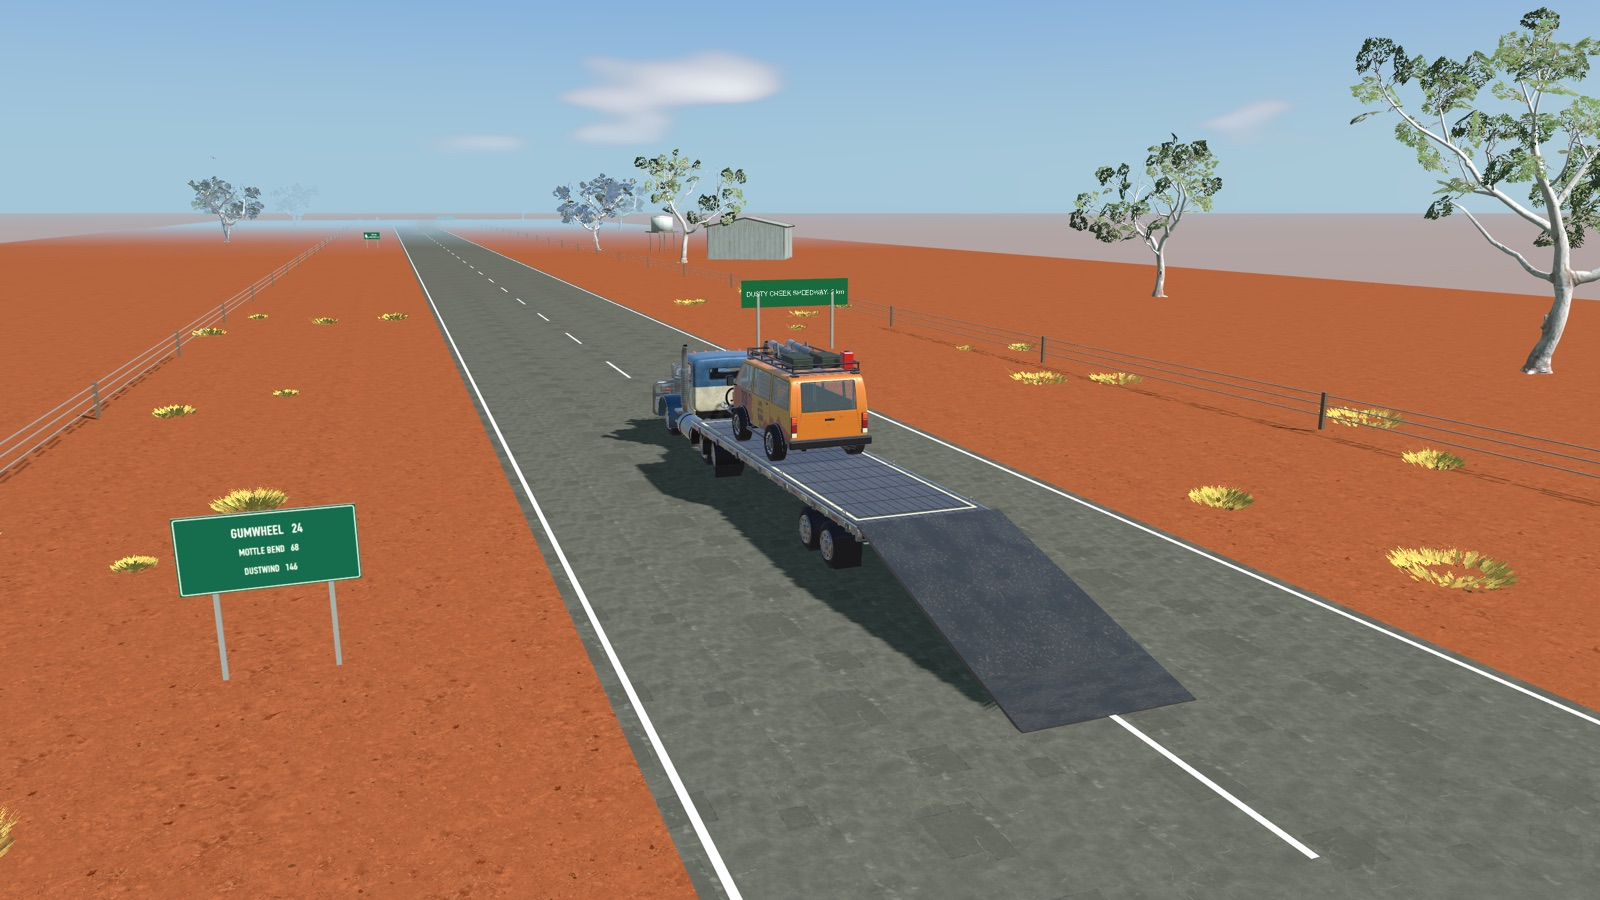
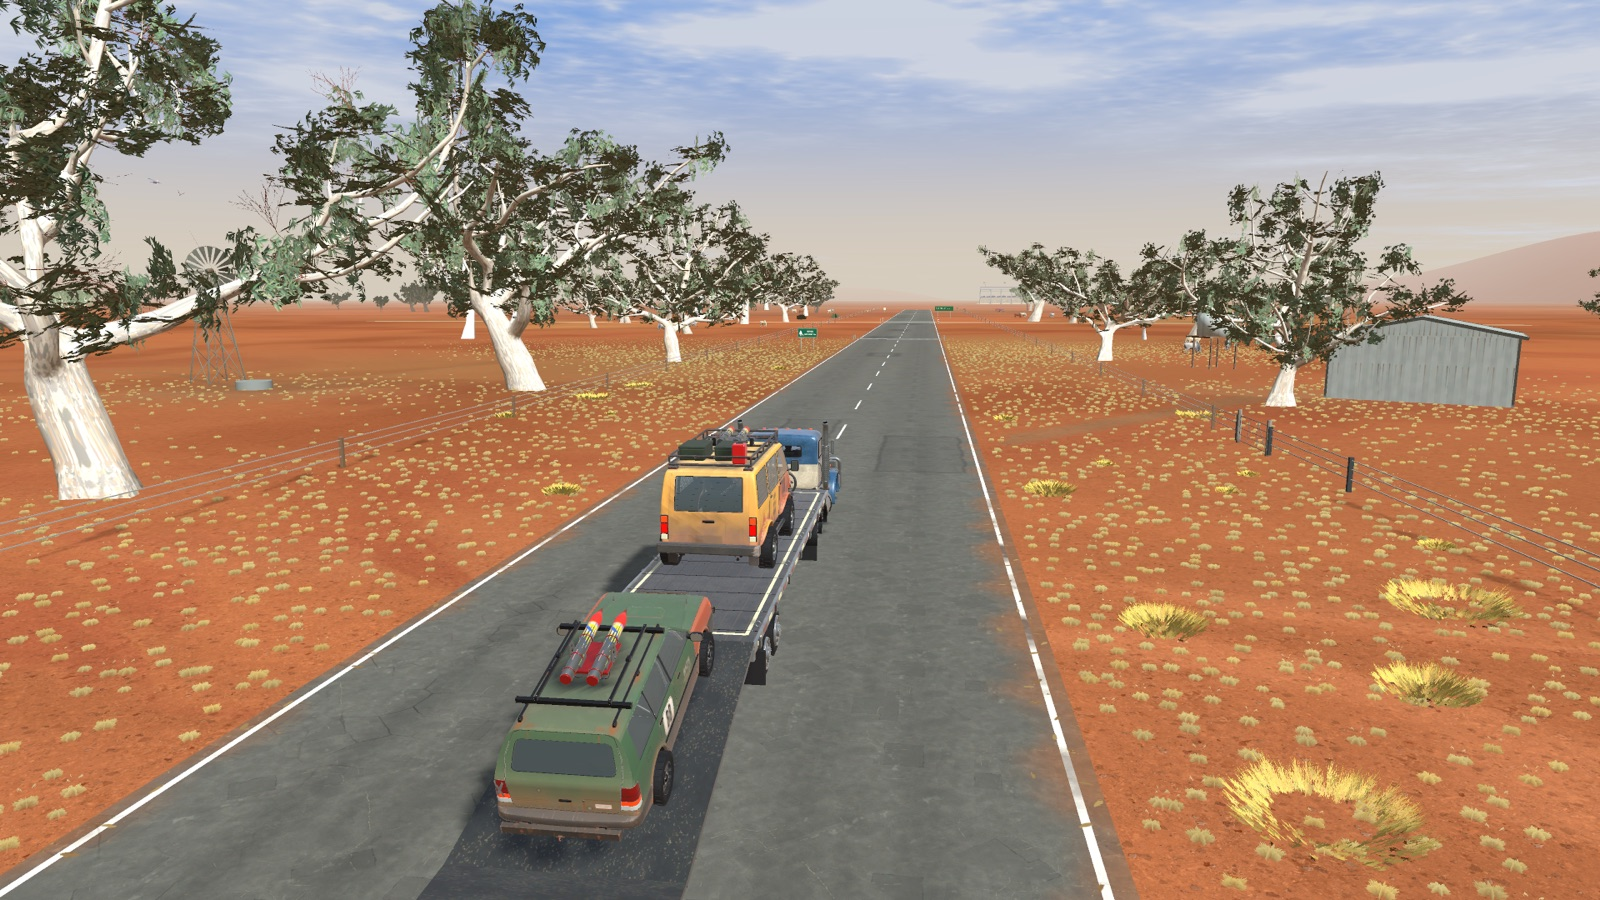
Sync from rig-king/site

diff --git a/tracks/index.html b/tracks/index.html
@@ -12,7 +12,7 @@
 <body>
   <header class="site-header">
     <div class="wrap">
-      <a class="brand" href="/" aria-label="Rig King home"><img src="/assets/logo.svg" alt="Rig King" width="266" height="57"></a>
+      <a class="brand" href="/" aria-label="Rig King home"><img src="/assets/logo-400.png" srcset="/assets/logo-400.png 400w, /assets/logo-800.png 800w" sizes="(max-width: 620px) 158px, 197px" alt="Rig King" width="197" height="40"></a>
       <nav class="nav" aria-label="Main">
         <a href="/tracks/" aria-current="page">Tracks</a>
         <a href="/support/">Support</a>
@@ -70,12 +70,12 @@
         <p class="kicker">04 · The Daintree, Far North Queensland</p>
         <h2>Croc River Run</h2>
         <p class="region">Point to point · Ferry · Trail · Track pack (iOS)</p>
-        <p>Set in the Daintree, where a cable ferry crosses a crocodile river and a famous 4WD track runs north through the rainforest. The rig drives down the riverside road past the croc warning signs, boards the Mudlark Ferry under its own power, and the fight carries on aboard while the river slides past. On the far bank the road gives up: a bumpy, kerb-free trail through dense jungle, a splash creek, and a paddock-fence finish.</p>
+        <p>Set in the Daintree, where a cable ferry crosses a crocodile river and a famous 4WD track runs north through the rainforest. The rig drives down the riverside road past the croc warning signs, boards the Old Salty ferry under its own power, and the fight carries on aboard while the river slides past. On the far bank the road gives up: a bumpy, kerb-free trail through dense jungle, a splash creek, and a paddock-fence finish.</p>
         <p><b>What's unique:</b> it is the first point-to-point event and the only one with a parked trailer. On the ferry there is nowhere safe to go, and on the trail the bumps make the trailer itself hop. The cars run lifted suspension for this event only. Crocodiles watch from the banks; nothing in the game can hit them.</p>
         <p class="plants"><b>Plants:</b> the wet tropics of the Daintree. Along the river are weeping paperbarks, the native trees with soft, peeling white bark, Leichhardt trees, with big round leaves and ball-shaped flowers, and lilly pilly, with forest red gums in the open forest and grey and red mangroves on the mud at both banks. On the trail are Licuala fan palms, with round pleated leaves like open fans, and tall slender Alexandra palms; strangler figs; umbrella trees, with leaves spread like spokes; Hope's cycads, the ancient palm-like plants of the north; a buttressed rainforest giant; king ferns and tree ferns; lawyer cane, the spiny climbing palm that catches on everything; elkhorns and bird's nest ferns growing on the trunks; hanging vines; cottonwood hibiscus with its yellow flowers on the creek banks; and a big-leaf edge of cunjevoi and native ginger. Bananas grow near the farms.</p>
               <div class="shots">
           <figure><img src="/assets/shots/croc-river-1.jpg" alt="The fight for the deck aboard the river ferry on Croc River Run" loading="lazy" width="1600" height="900"></figure>
-          <figure><img src="/assets/shots/croc-river-2.jpg" alt="The wagon climbing the ramp as the rig boards the Mudlark Ferry" loading="lazy" width="1600" height="900"></figure>
+          <figure><img src="/assets/shots/croc-river-2.jpg" alt="Four cars fighting on the trailer as the rig rides the river ferry on Croc River Run" loading="lazy" width="1600" height="900"></figure>
         </div>
       </section>
 
@@ -109,7 +109,7 @@
         <h2>Training road</h2>
         <p>Your first drive is a sealed country road into Dusty Creek: paddock fences, gums, a shed, a water tank and a windmill, with the speedway signs counting down. Try the rocket, the oil and the tyre on the way, then catch the truck and get aboard.</p>
         <div class="shots one">
-          <figure><img src="/assets/shots/training-road-1.jpg" alt="The training road: the rig and the van ahead on a sealed outback road, the Dusty Creek Speedway sign on the verge" loading="lazy" width="1600" height="900"></figure>
+          <figure><img src="/assets/shots/training-road-1.jpg" alt="The training road: the wagon drives up the ramps behind the van on the flatbed, on a sealed outback road between paddock fences, with gums, a windmill, a farm shed and a water tank" loading="lazy" width="1600" height="900"></figure>
         </div>
       </section>
 

diff --git a/credits/index.html b/credits/index.html
@@ -12,7 +12,7 @@
 <body>
   <header class="site-header">
     <div class="wrap">
-      <a class="brand" href="/" aria-label="Rig King home"><img src="/assets/logo.svg" alt="Rig King" width="266" height="57"></a>
+      <a class="brand" href="/" aria-label="Rig King home"><img src="/assets/logo-400.png" srcset="/assets/logo-400.png 400w, /assets/logo-800.png 800w" sizes="(max-width: 620px) 158px, 197px" alt="Rig King" width="197" height="40"></a>
       <nav class="nav" aria-label="Main">
         <a href="/support/">Support</a>
         <a href="/privacy/">Privacy</a>
@@ -24,7 +24,18 @@
   <main class="page">
     <div class="wrap">
       <h1>Credits</h1>
-      <p class="updated">Rig King is made with the help of these tools and artists.</p>
+      <p class="updated">Most of what you see in Rig King was made for it. These tools and artists helped with the rest.</p>
+
+      <h2>Made for Rig King</h2>
+      <p>Every plant, tree, building and sign in the game was modelled for Rig King, and so was every vehicle you can drive and every animal except the crocodiles:</p>
+      <ul>
+        <li>more than 60 kinds of tree and plant, mostly Australian natives, from river red gums, coolibahs and boabs to tree ferns, palms, spinifex and kangaroo paw;</li>
+        <li>the red kangaroos, wallabies, emus, cassowaries, Brahman cattle and birds;</li>
+        <li>the rig and its trailer, the road train, the cars, the bus, and the sedans, utes, 4WDs and caravans parked at Dusty Creek and Long Haul;</li>
+        <li>the Croc River ferry;</li>
+        <li>the buildings, from the Dusty Creek grandstand and the Long Ways Roadhouse to the Nightcap village and the farm sheds, windmills and tanks;</li>
+        <li>the road signs, event props, cliffs and termite mounds.</li>
+      </ul>
 
       <h2>Engine and physics</h2>
       <table>
@@ -33,13 +44,10 @@
         <tr><th>EasyRoads3D Pro</th><td>Road building, by AndaSoft.</td></tr>
       </table>
 
-      <h2>Art</h2>
+      <h2>Other art</h2>
       <table>
-        <tr><th>Original art</th><td>The native plants, animals, buildings, signs and event props were modelled for Rig King.</td></tr>
-        <tr><th>Rural Australia Pack</th><td>Gum trees, grevillea and some country props on several tracks, by Pup Up Productions.</td></tr>
-        <tr><th>Stylized Water 3</th><td>River, creek and sea water, by Staggart Creations.</td></tr>
-        <tr><th>Advanced Rock Pack</th><td>Rocks and boulders, by NatureManufacture.</td></tr>
-        <tr><th>Small Car Ferry</th><td>The Croc River ferry, by mb13 (CGTrader).</td></tr>
+        <tr><th>Stylized Water 3</th><td>The river, creek, sea, waterfall pool and billabong water, by Staggart Creations.</td></tr>
+        <tr><th>Advanced Rock Pack</th><td>Boulders and rocks on Nightcap Drive, Sea Cliff Run and Croc River Run, by NatureManufacture.</td></tr>
         <tr><th>LowPoly Crocodile Rigged</th><td>The Croc River crocodiles, by fattoocreater (CGTrader).</td></tr>
         <tr><th>Low Poly Retro Car Pack: 15 Classic Vehicles</th><td>Parked classic cars on Nightcap Drive, by madtrollstudio (CGTrader).</td></tr>
         <tr><th>Semi Truck Heavy Duty American Design Low Poly</th><td>Parked prime movers at the Long Haul roadhouse, by artworkz2015 (CGTrader).</td></tr>
@@ -63,7 +71,8 @@
         <tr><th>Alligator Growls 02</th><td>The Croc River crocodile's growl, by D.jones (Freesound, CC0).</td></tr>
         <tr><th>ROAD RAGE and Processed Impacts</th><td>Car crashes, landings, rollovers, glass, fences, the rig's crashes and the storm's thunder, by BOOM Library.</td></tr>
         <tr><th>Regular Impact Sounds</th><td>Crashes, rocket hits, barrier and fence hits, landings and the rockfall, by AD Sounds (Unity Asset Store).</td></tr>
-        <tr><th>NWH Vehicle Physics 2 sample sounds</th><td>Part of the tunnel roof scrape, by NWH Coding (Unity Asset Store).</td></tr>
+        <tr><th>NWH Vehicle Physics 2 sounds</th><td>Tyre rolling and skid sounds, and part of the tunnel roof scrape, by NWH Coding (Unity Asset Store).</td></tr>
+        <tr><th>Sonniss #GameAudioGDC</th><td>The Nightcap Drive waterfall, from the Sonniss game audio bundles.</td></tr>
       </table>
 
       <h2>Type</h2>

diff --git a/index.html b/index.html
@@ -7,9 +7,13 @@
   <meta name="description" content="Rig King is a grassroots Australian car-combat party game. Chase a moving truck and trailer, drive up its ramps and stay aboard. Most time aboard wins.">
   <meta property="og:title" content="Rig King">
   <meta property="og:description" content="Chase the rig, get aboard, stay aboard. Most time aboard wins.">
-  <meta property="og:image" content="https://playrigking.com/assets/hero.jpg">
+  <meta property="og:image" content="https://playrigking.com/assets/og-image.jpg">
+  <meta property="og:image:width" content="1200">
+  <meta property="og:image:height" content="630">
+  <meta property="og:image:alt" content="Rig King key art: a blue truck hauling a flatbed across red outback dirt at sunset, with cars fighting to get aboard">
   <meta property="og:url" content="https://playrigking.com/">
   <meta name="twitter:card" content="summary_large_image">
+  <meta name="twitter:image" content="https://playrigking.com/assets/og-image.jpg">
   <meta name="theme-color" content="#121719">
   <link rel="icon" href="/assets/favicon.png" type="image/png">
   <link rel="apple-touch-icon" href="/assets/apple-touch-icon.png">
@@ -18,7 +22,7 @@
 <body>
   <header class="site-header">
     <div class="wrap">
-      <a class="brand" href="/" aria-label="Rig King home"><img src="/assets/logo.svg" alt="Rig King" width="266" height="57"></a>
+      <a class="brand" href="/" aria-label="Rig King home"><img src="/assets/logo-400.png" srcset="/assets/logo-400.png 400w, /assets/logo-800.png 800w" sizes="(max-width: 620px) 158px, 197px" alt="Rig King" width="197" height="40"></a>
       <nav class="nav" aria-label="Main">
         <a href="#how">How it plays</a>
         <a href="/tracks/">Tracks</a>
@@ -30,7 +34,7 @@
 
   <main>
     <section class="hero" aria-label="Rig King">
-      <img class="hero-art" src="/assets/hero.jpg" alt="Rig King: a blue truck hauling a flatbed with a yellow van aboard across red outback dirt at sunset, a green wagon chasing" width="2000" height="925">
+      <img class="hero-art" src="/assets/hero.jpg" alt="A blue truck hauling a flatbed across red outback dirt at sunset: a white rally car rides the deck, a green wagon climbs the ramps, a red coupe flies through the air and a yellow van chases" width="2000" height="925">
       <div class="wrap hero-copy">
         <h1>Chase the rig. Get aboard. Stay aboard.</h1>
         <p class="lede">A grassroots Australian car-combat party game. A truck hauls a flatbed round the track while you and your rivals fight to drive up its ramps and hold on. Most time aboard wins.</p>

diff --git a/press/index.html b/press/index.html
@@ -12,7 +12,7 @@
 <body>
   <header class="site-header">
     <div class="wrap">
-      <a class="brand" href="/" aria-label="Rig King home"><img src="/assets/logo.svg" alt="Rig King" width="266" height="57"></a>
+      <a class="brand" href="/" aria-label="Rig King home"><img src="/assets/logo-400.png" srcset="/assets/logo-400.png 400w, /assets/logo-800.png 800w" sizes="(max-width: 620px) 158px, 197px" alt="Rig King" width="197" height="40"></a>
       <nav class="nav" aria-label="Main">
         <a href="/support/">Support</a>
         <a href="/privacy/">Privacy</a>
@@ -41,8 +41,8 @@
       <p>A truck hauls a thin flatbed trailer round the track. Everyone else is trying to drive up its two narrow ramps and stay aboard, and the car with the most time on the deck wins. Roof rockets, an oil spill and a spare tyre fired from the boot keep the deck contested. Tracks run from a country dirt speedway to a sea-cliff bridge, a crocodile river with a ferry crossing, and a road train in the outback. On the big screen, phones become steering wheels.</p>
 
       <h2>Logo</h2>
-      <p><a href="/assets/logo.svg" download>Download the logo (SVG)</a>. Please keep "RIG KING" as one unit and the truck attached.</p>
-      <img src="/assets/logo.svg" alt="Rig King logo" width="533" height="115" class="logo-plate">
+      <p><a href="/assets/rig-king-logo.png" download>Download the logo (PNG, 4000 × 813, transparent)</a>. Please keep "RIG KING" as one unit and the truck attached.</p>
+      <img src="/assets/logo-800.png" srcset="/assets/logo-800.png 800w, /assets/rig-king-logo.png 4000w" sizes="(max-width: 620px) 90vw, 533px" alt="Rig King logo" width="533" height="108" class="logo-plate">
 
       <h2>Screenshots</h2>
       <div class="shots">

diff --git a/assets/style.css b/assets/style.css
@@ -46,9 +46,10 @@ a:hover { color: #ff9a55; }
 .nav a { color: var(--sand); text-decoration: none; font-weight: 600; font-size: 15px; opacity: .85; }
 .nav a:hover, .nav a[aria-current="page"] { opacity: 1; color: var(--accent); }
 
-/* Hero: the splash artwork shown whole (it carries its own title), the pitch below it */
+/* Hero: the key art without its logo (the header carries it), the pitch below it. When a wide screen crops it, keep
+   the car in the air near the top and lose more of the foreground dirt. */
 .hero { padding: 0 0 56px; background: var(--ink); }
-.hero-art { width: 100%; max-height: 78vh; object-fit: cover; object-position: center 40%; }
+.hero-art { width: 100%; max-height: 78vh; object-fit: cover; object-position: center 30%; }
 .hero-copy { margin-top: 30px; }
 .hero h1 {
   font-family: var(--display); font-weight: 900; letter-spacing: -.01em;

diff --git a/privacy/index.html b/privacy/index.html
@@ -12,7 +12,7 @@
 <body>
   <header class="site-header">
     <div class="wrap">
-      <a class="brand" href="/" aria-label="Rig King home"><img src="/assets/logo.svg" alt="Rig King" width="266" height="57"></a>
+      <a class="brand" href="/" aria-label="Rig King home"><img src="/assets/logo-400.png" srcset="/assets/logo-400.png 400w, /assets/logo-800.png 800w" sizes="(max-width: 620px) 158px, 197px" alt="Rig King" width="197" height="40"></a>
       <nav class="nav" aria-label="Main">
         <a href="/support/">Support</a>
         <a href="/privacy/" aria-current="page">Privacy</a>

diff --git a/support/index.html b/support/index.html
@@ -12,7 +12,7 @@
 <body>
   <header class="site-header">
     <div class="wrap">
-      <a class="brand" href="/" aria-label="Rig King home"><img src="/assets/logo.svg" alt="Rig King" width="266" height="57"></a>
+      <a class="brand" href="/" aria-label="Rig King home"><img src="/assets/logo-400.png" srcset="/assets/logo-400.png 400w, /assets/logo-800.png 800w" sizes="(max-width: 620px) 158px, 197px" alt="Rig King" width="197" height="40"></a>
       <nav class="nav" aria-label="Main">
         <a href="/support/" aria-current="page">Support</a>
         <a href="/privacy/">Privacy</a>

diff --git a/404.html b/404.html
@@ -11,7 +11,7 @@
 <body>
   <main class="page">
     <div class="wrap">
-      <p><a href="/"><img src="/assets/logo.svg" alt="Rig King" width="266" height="57"></a></p>
+      <p><a href="/"><img src="/assets/logo-400.png" srcset="/assets/logo-400.png 400w, /assets/logo-800.png 800w" sizes="(max-width: 620px) 158px, 197px" alt="Rig King" width="197" height="40"></a></p>
       <h1>Knocked off the trailer.</h1>
       <p class="updated">That page doesn't exist. <a href="/">Back to the start line</a>.</p>
     </div>
